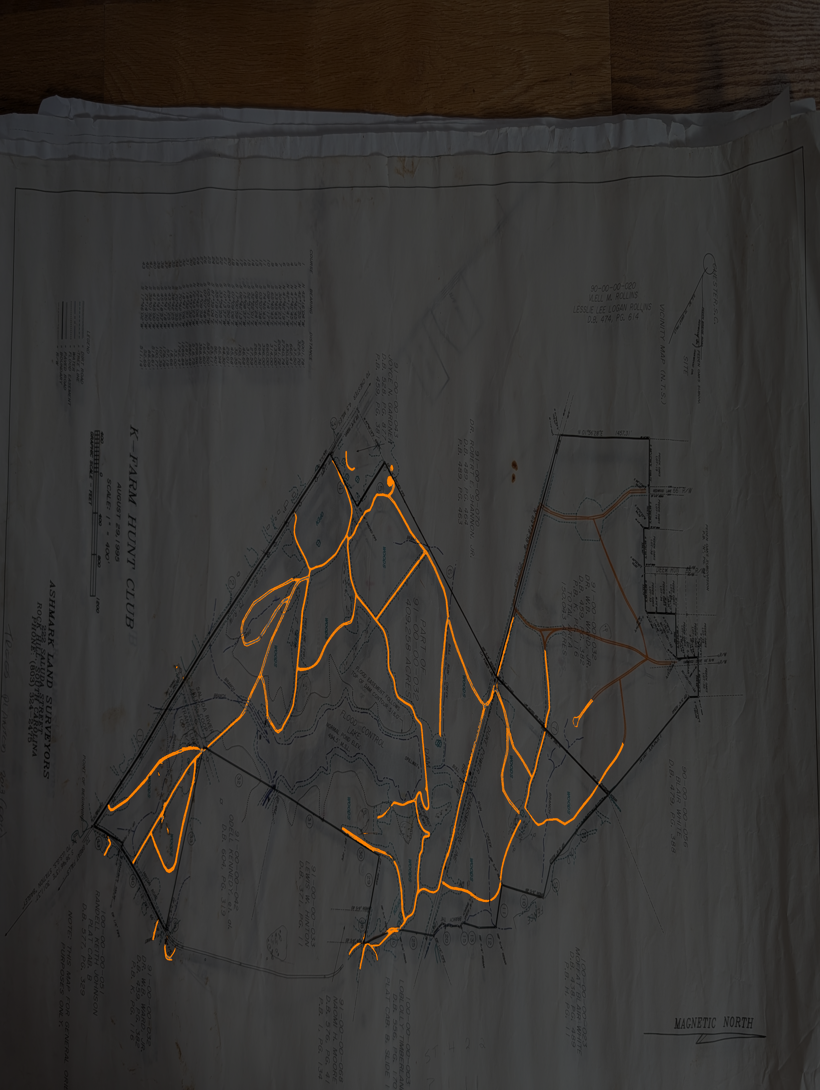
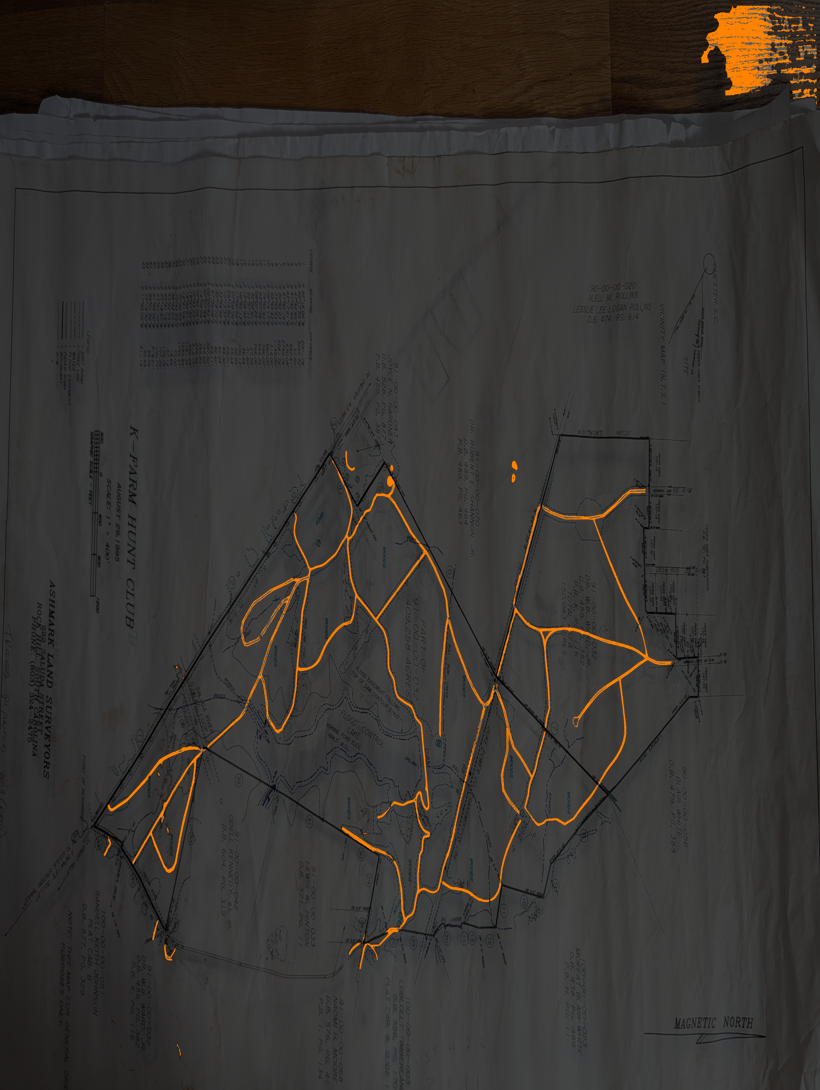
farm-map: trail ROI was clipping 93% of the ink -- region is the PAPER, not the parcel
Gil reported lines clearly missing. Instrumenting each filter found one dominant
cause and exonerated the rest.

The region of interest was the deed polygon + a 220 px pad, intended to reject the
legend and margins. But the hunt club's road/trail network runs well off the deed
parcel onto the north and east tracts, so the clip discarded 92.6% of sheet 03's
orange ink (1,225,651 px -> 91,230) and severed every boundary-crossing line.

What actually needed excluding was the wooden TABLE the sheets were photographed
on, which is orange-brown and which the trail masks select happily. So the ROI is
now the paper itself: the single large bright, unsaturated component, hole-filled
and eroded slightly off the curled edge.

  sheet 03  12.1 -> 17.8 km      sheet 05   9.8 -> 12.6 km
  sheet 02   7.2 -> 10.5 km      fused     24.9 -> 41.0 km  (274 -> 410 lines)

Cleared of blame, by measurement on sheet 03: min_len_m=25 drops only 2.5% of
total traced length; min_branch_px moves the edge count by <5%; gap bridging is
working. The clip was the whole story.

Lines are now tagged where = on-property / off-property / crosses-boundary
(219 / 185 / 6). Off-property is a label, not a filter -- those are real adjoining
-tract roads. review.html draws them dashed, with a toggle.

diff --git a/farm-map/review.html b/farm-map/review.html
@@ -31,6 +31,8 @@
   <div class="row"><input type="checkbox" id="nh"><span class="sw" style="background:#fff;height:2px"></span><label for="nh">Lake — USGS NHD (old)</label></div>
   <div class="row"><input type="checkbox" id="bd" checked><span class="sw" style="background:#ff2ddd"></span><label for="bd">Deed boundary</label></div>
   <hr>
+  <div class="row"><input type="checkbox" id="off" checked><label for="off">Show off-property lines</label></div>
+  <hr>
   <div class="n" id="stats">loading…</div>
 </div>
 <script>
@@ -64,26 +66,39 @@ const getJSON = (url) => fetch(url).then(r => {
   return r.json();
 }).catch(e => { fail('Could not load <code>' + url + '</code> — ' + e.message); throw e; });
 
+// Off-property lines are real (the hunt club's network runs onto the adjoining
+// tracts) but they are dashed, so the deed parcel stays legible.
+const offLayers = [];
+
 getJSON('source-data/derived/trails.geojson').then(gj=>{
   const tally = {1:0,2:0,3:0}, meters = {1:0,2:0,3:0};
+  let offN = 0, offM = 0;
   L.geoJSON(gj, {
     style: f => ({color: COL[f.properties.sheet_support]||'#888',
                   weight: f.properties.sheet_support===3?3.4:2.2,
-                  opacity: 0.95}),
+                  opacity: f.properties.where==='off-property'?0.55:0.95,
+                  dashArray: f.properties.where==='off-property'?'6,5':null}),
     onEachFeature: (f,l) => {
       const p = f.properties;
       tally[p.sheet_support]++; meters[p.sheet_support]+=p.length_m;
-      l.bindPopup(`<b>${p.length_m} m</b><br>drawn on sheet ${p.source}` +
+      if (p.where==='off-property'){ offN++; offM+=p.length_m; offLayers.push(l); }
+      l.bindPopup(`<b>${p.length_m} m</b> · ${p.where}<br>drawn on sheet ${p.source}` +
         (p.confirmed_by.length ? `<br>confirmed by ${p.confirmed_by.join(', ')}` : '<br><i>no other sheet shows this</i>'));
       groups[p.sheet_support].addLayer(l);
     }
   });
   const km = n => (meters[n]/1000).toFixed(1);
+  const tot = ((meters[1]+meters[2]+meters[3])/1000).toFixed(1);
   document.getElementById('stats').innerHTML =
     `${tally[3]} lines · ${km(3)} km — all 3 sheets<br>` +
     `${tally[2]} lines · ${km(2)} km — 2 sheets<br>` +
     `${tally[1]} lines · ${km(1)} km — 1 sheet<br>` +
+    `<b>${tot} km total</b> · ${offN} lines (${(offM/1000).toFixed(1)} km) off-property, dashed<br>` +
     `<br>Every annotation is from the 1995 survey.<br>Tiers (road vs foot trail) not yet classified.`;
+
+  document.getElementById('off').addEventListener('change', e => {
+    offLayers.forEach(l => l.setStyle({opacity: e.target.checked ? 0.55 : 0}));
+  });
 });
 
 const lake = L.layerGroup().addTo(map), nhd = L.layerGroup(), bnd = L.layerGroup().addTo(map);

diff --git a/farm-map/extract/trails.py b/farm-map/extract/trails.py
@@ -29,6 +29,7 @@ import numpy as np
 from PIL import Image
 from scipy import ndimage
 from shapely.geometry import mapping, MultiLineString
+from shapely.geometry import Polygon
 from shapely.ops import unary_union
 
 import geolib as G
@@ -37,6 +38,7 @@ import register as R
 
 DEMO = os.path.join(G.REPO, "farm-map", "demo")
 LAT0 = 34.66
+SURVEY = Polygon(F.SURVEY_LONLAT)
 
 
 def sheet(slug):
@@ -44,11 +46,28 @@ def sheet(slug):
 
 
 def roi_for(slug, a, pad_px=220):
-    """Generous property ROI. The network runs off the survey polygon into the north
-    tract, so this is a margin/legend rejecter, not a property clip."""
-    h = np.array(json.load(open(os.path.join(G.TX, slug + ".json")))["homography_px_to_world"])
-    roi, _ = F.boundary_roi(a, h, pad_px=pad_px)
-    return roi
+    """The region of interest is the PAPER, not the property.
+
+    The first version clipped to the deed polygon plus a 220 px pad. That threw away
+    92.6% of sheet 03's orange ink: the hunt club's road and trail network runs well
+    off the deed parcel into the north and east tracts, and the clip cut every one of
+    those lines at the boundary. The thing actually worth excluding is the wooden
+    table the sheets were photographed on -- which is orange-brown, and which the
+    trail masks love.
+
+    So: find the paper. It is the one huge bright, unsaturated component in the frame.
+    Erode a little to step off the curled paper edge, and keep everything drawn on it.
+    """
+    H, S, V = F.to_hsv(a)
+    bright = (V > 0.50) & (S < 0.40)
+    bright = ndimage.binary_closing(bright, np.ones((9, 9)))
+    lbl, n = ndimage.label(bright)
+    if n == 0:
+        return np.ones(a.shape[:2], bool)
+    sizes = ndimage.sum(bright, lbl, range(1, n + 1))
+    paper = lbl == (1 + int(np.argmax(sizes)))
+    paper = ndimage.binary_fill_holes(paper)
+    return ndimage.binary_erosion(paper, iterations=12)
 
 
 def net_from(slug, mask, bridge, min_branch, min_len_m, dbg_name, dbg_col):
@@ -129,18 +148,35 @@ def main():
                 inter = g.intersection(buf)
                 if not inter.is_empty and inter.length > 0.5 * g.length:
                     support.append(k2)
+            # Where does it sit relative to the deed parcel? The network legitimately
+            # runs off-property, so this is a label, not a filter.
+            inside_len = g.intersection(SURVEY).length
+            if inside_len <= 0.02 * g.length:
+                where = "off-property"
+            elif inside_len >= 0.98 * g.length:
+                where = "on-property"
+            else:
+                where = "crosses-boundary"
             feats.append(F.feat(
                 mapping(g),
                 layer="road/trail", klass="unclassified", source=k,
                 length_m=round(G.line_len_m(g)),
                 confirmed_by=sorted(support),
-                sheet_support=1 + len(support)))
+                sheet_support=1 + len(support),
+                where=where))
 
     by = {}
     for f in feats:
         by[f["properties"]["sheet_support"]] = by.get(f["properties"]["sheet_support"], 0) + 1
     print("\nfused features: %d" % len(feats))
     print("sheet support histogram (1 = only one sheet draws it): %s" % dict(sorted(by.items())))
+    wh = {}
+    for f in feats:
+        w = f["properties"]["where"]
+        wh[w] = wh.get(w, 0) + 1
+    print("relative to the deed parcel: %s" % wh)
+    km = sum(f["properties"]["length_m"] for f in feats) / 1000.0
+    print("total network: %.1f km" % km)
 
     F.write("trails.geojson", F.fc(
         feats,